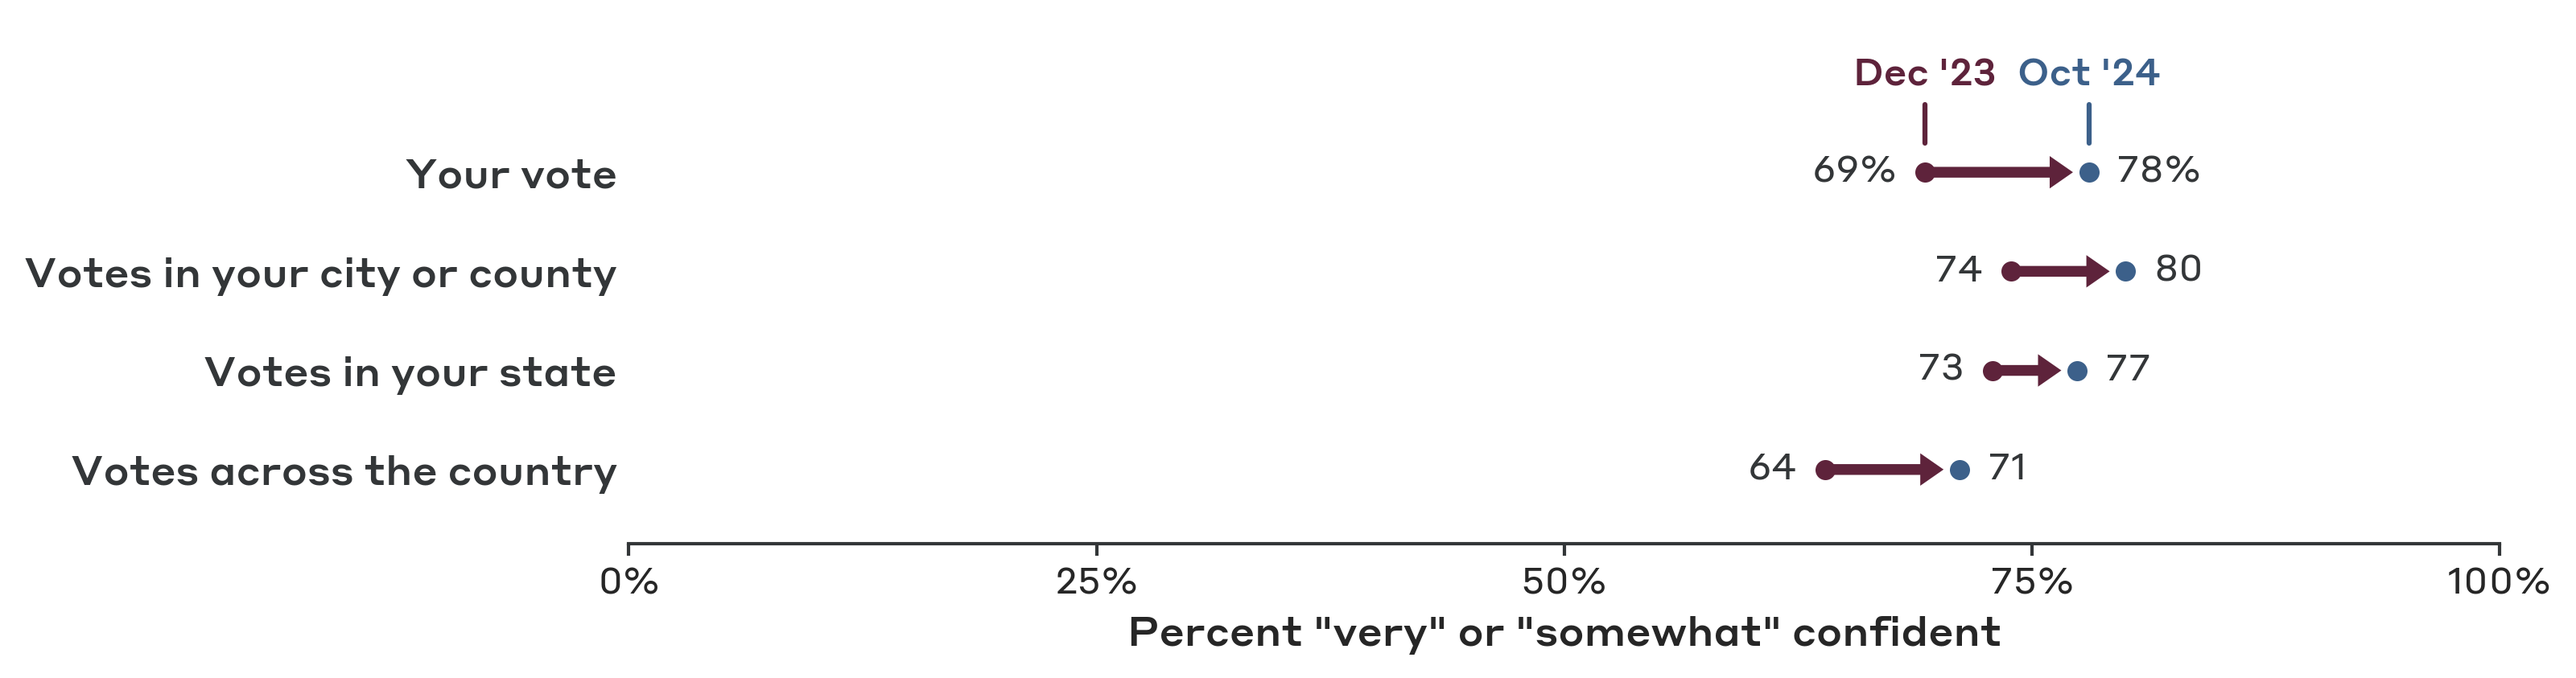
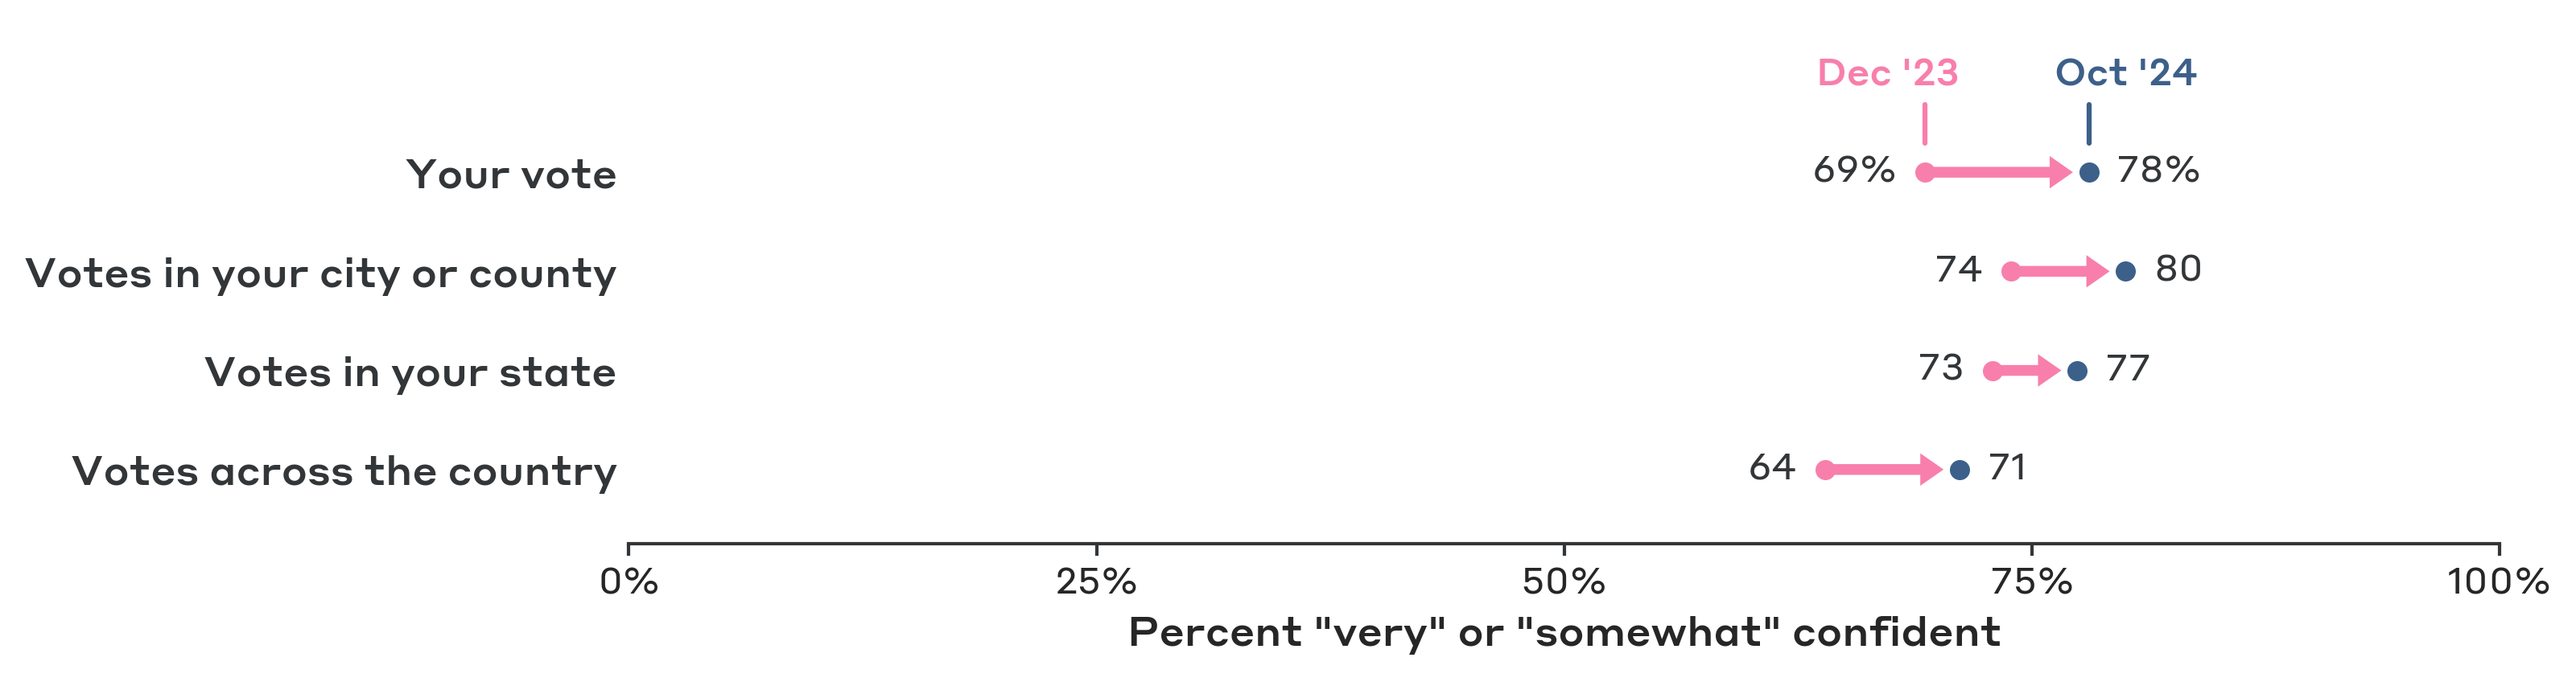
chart tweak

diff --git a/visualizing.py b/visualizing.py
@@ -226,7 +226,7 @@ def plot_question(df, question, question_text, sort=True):
 
     return ax
 
-def dotplot2(df, file_name, start_tick_title, end_tick_title, xlabel,title=None,plot_type=None,x_axis_limit = 1):
+def dotplot(df, file_name, start_tick_title, end_tick_title, xlabel,title=None,plot_type=None,x_axis_limit = 1):
     categories = df.index
     n = len(categories)
 
@@ -247,8 +247,9 @@ def dotplot2(df, file_name, start_tick_title, end_tick_title, xlabel,title=None,
     lightblue = '#3687e7'
     mustard = '#D4AD50'
     purple = '#5E233B'
+    pink = '#F87FAB'
 
-    color1 = red if start_tick_title == "Republicans" else purple 
+    color1 = red if start_tick_title == "Republicans" else pink 
     color2 = lightblue if end_tick_title == "Democrats" else blue
 
 
@@ -299,9 +300,9 @@ def dotplot2(df, file_name, start_tick_title, end_tick_title, xlabel,title=None,
         if j == 0:
             # ax.text(start - h_label_offset, y[j], "'22", ha='right', va='center', color='black')
             # ax.text(end + h_label_offset, y[j], "'24", ha='left', va='center', color='black')
-            offset = (-.06 * x_axis_limit) if x_axis_limit!= 1 else 0
-            ax.text(start + (offset*sign), y[j]+ y_label_offset, start_tick_title, ha='center', va='center', color=color1, fontsize=data_label_fontsize, fontname='StyreneAMedium')
-            ax.text(end + (-1*offset*sign), y[j]+ y_label_offset, end_tick_title, ha='center', va='center', color=color2, fontsize=data_label_fontsize, fontname='StyreneAMedium')
+            offset = (-.06 * x_axis_limit) if x_axis_limit != 1 else -.02
+            ax.text(start + offset * sign, y[j]+ y_label_offset, start_tick_title, ha='center', va='center', color=color1, fontsize=data_label_fontsize, fontname='StyreneAMedium')
+            ax.text(end - offset * sign, y[j]+ y_label_offset, end_tick_title, ha='center', va='center', color=color2, fontsize=data_label_fontsize, fontname='StyreneAMedium')
             
             ax.plot([start, start], [y[j]+y_label_offset*.3, y[j]+y_label_offset*.7], color=color1, zorder=0)
             ax.plot([end, end], [y[j]+y_label_offset*.3, y[j]+y_label_offset*.7], color=color2, zorder=0)
